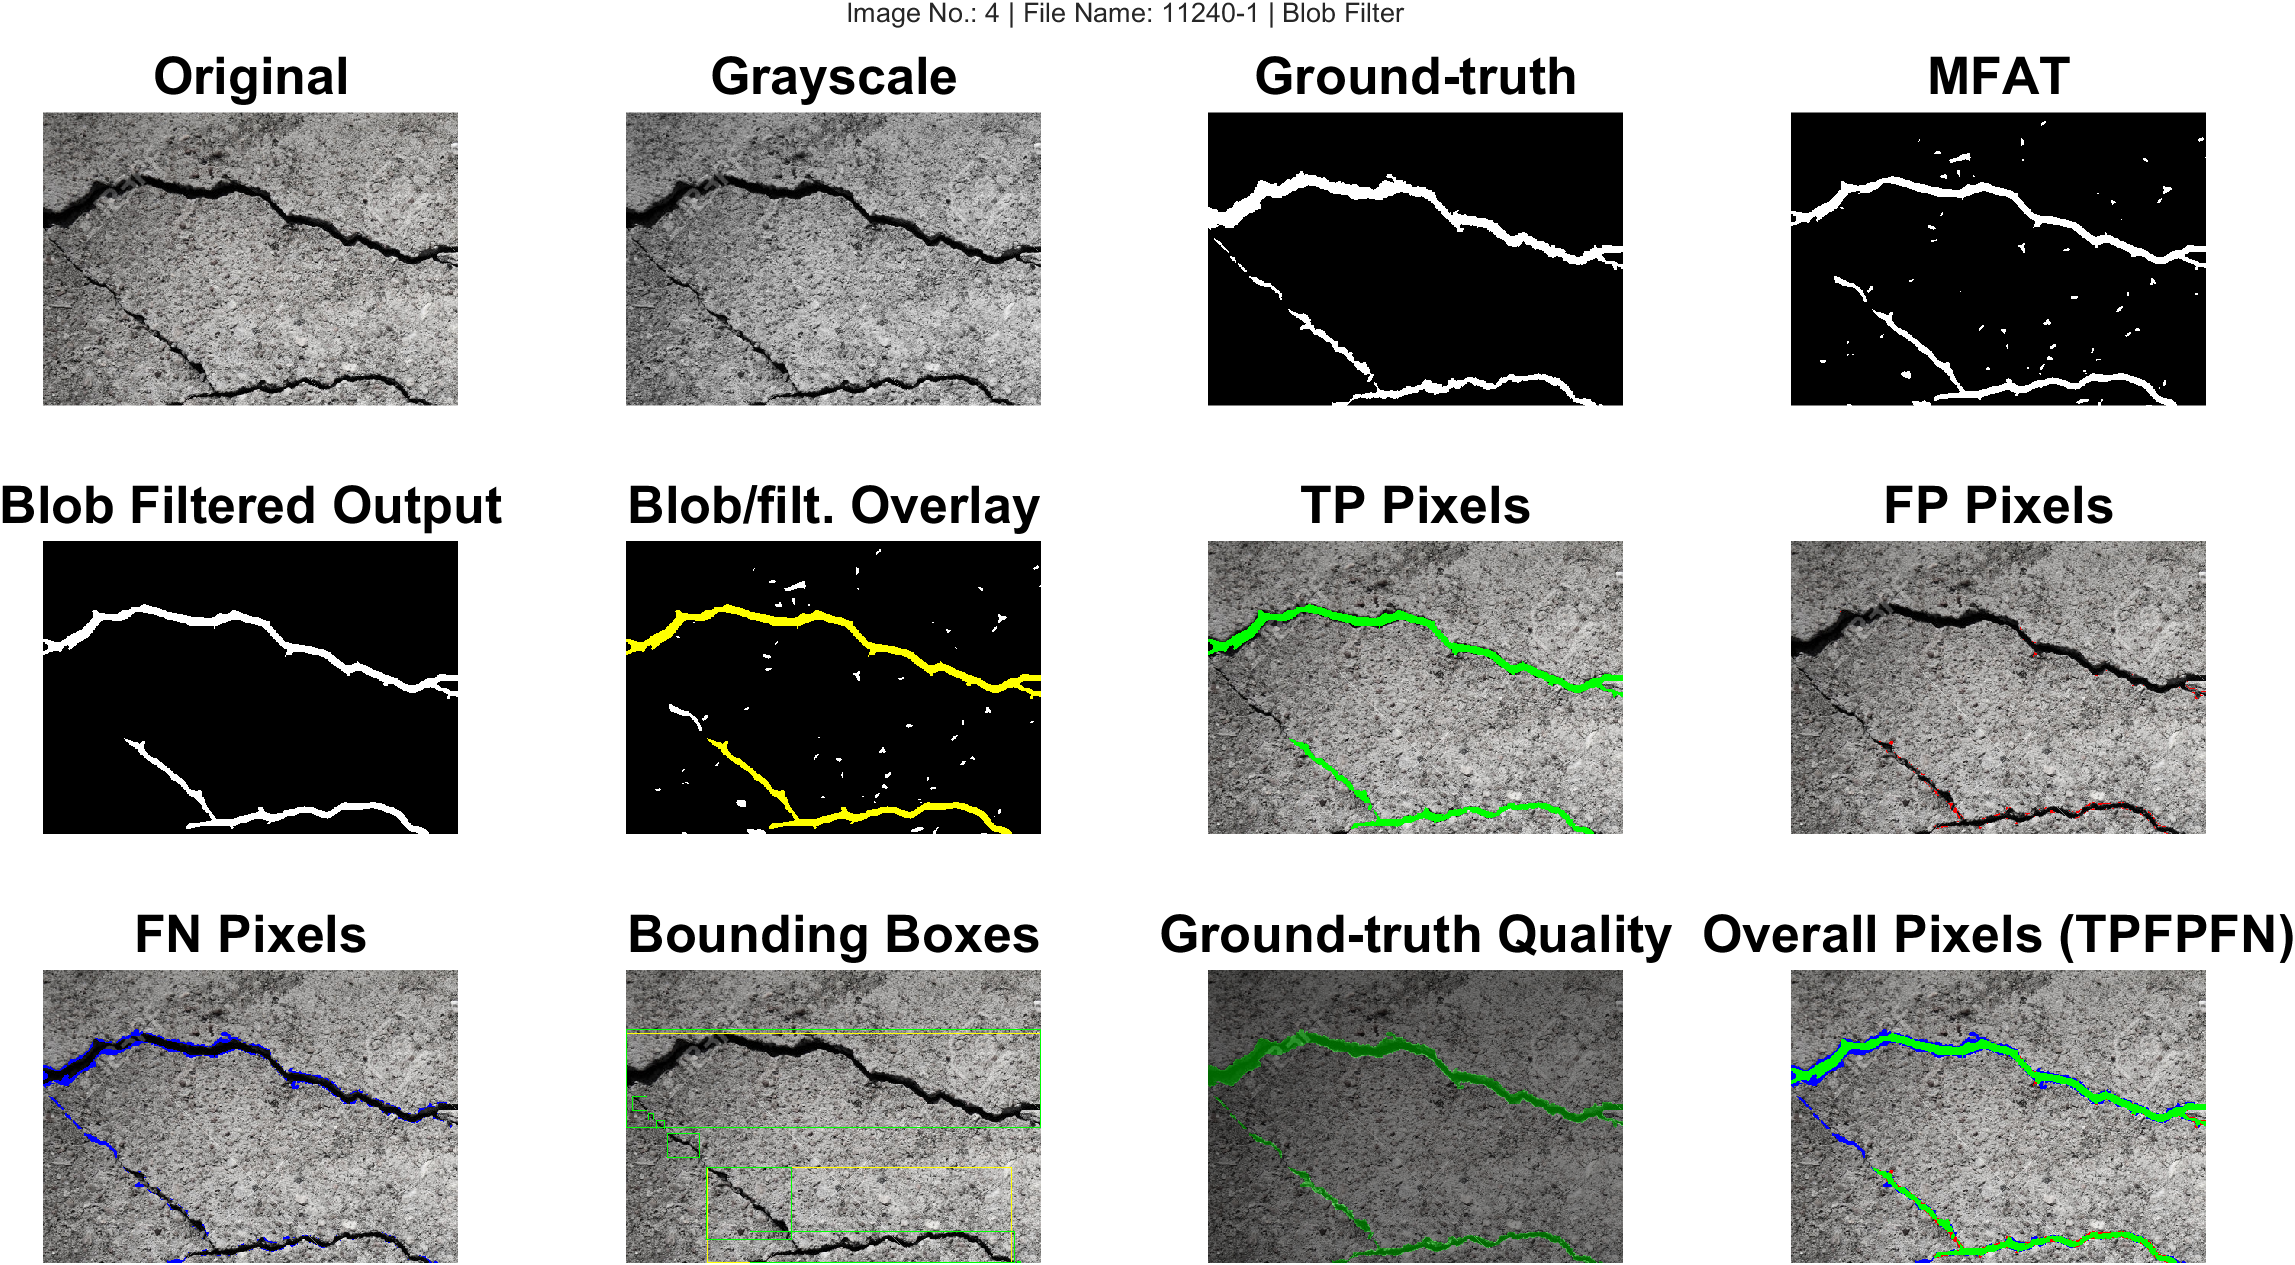
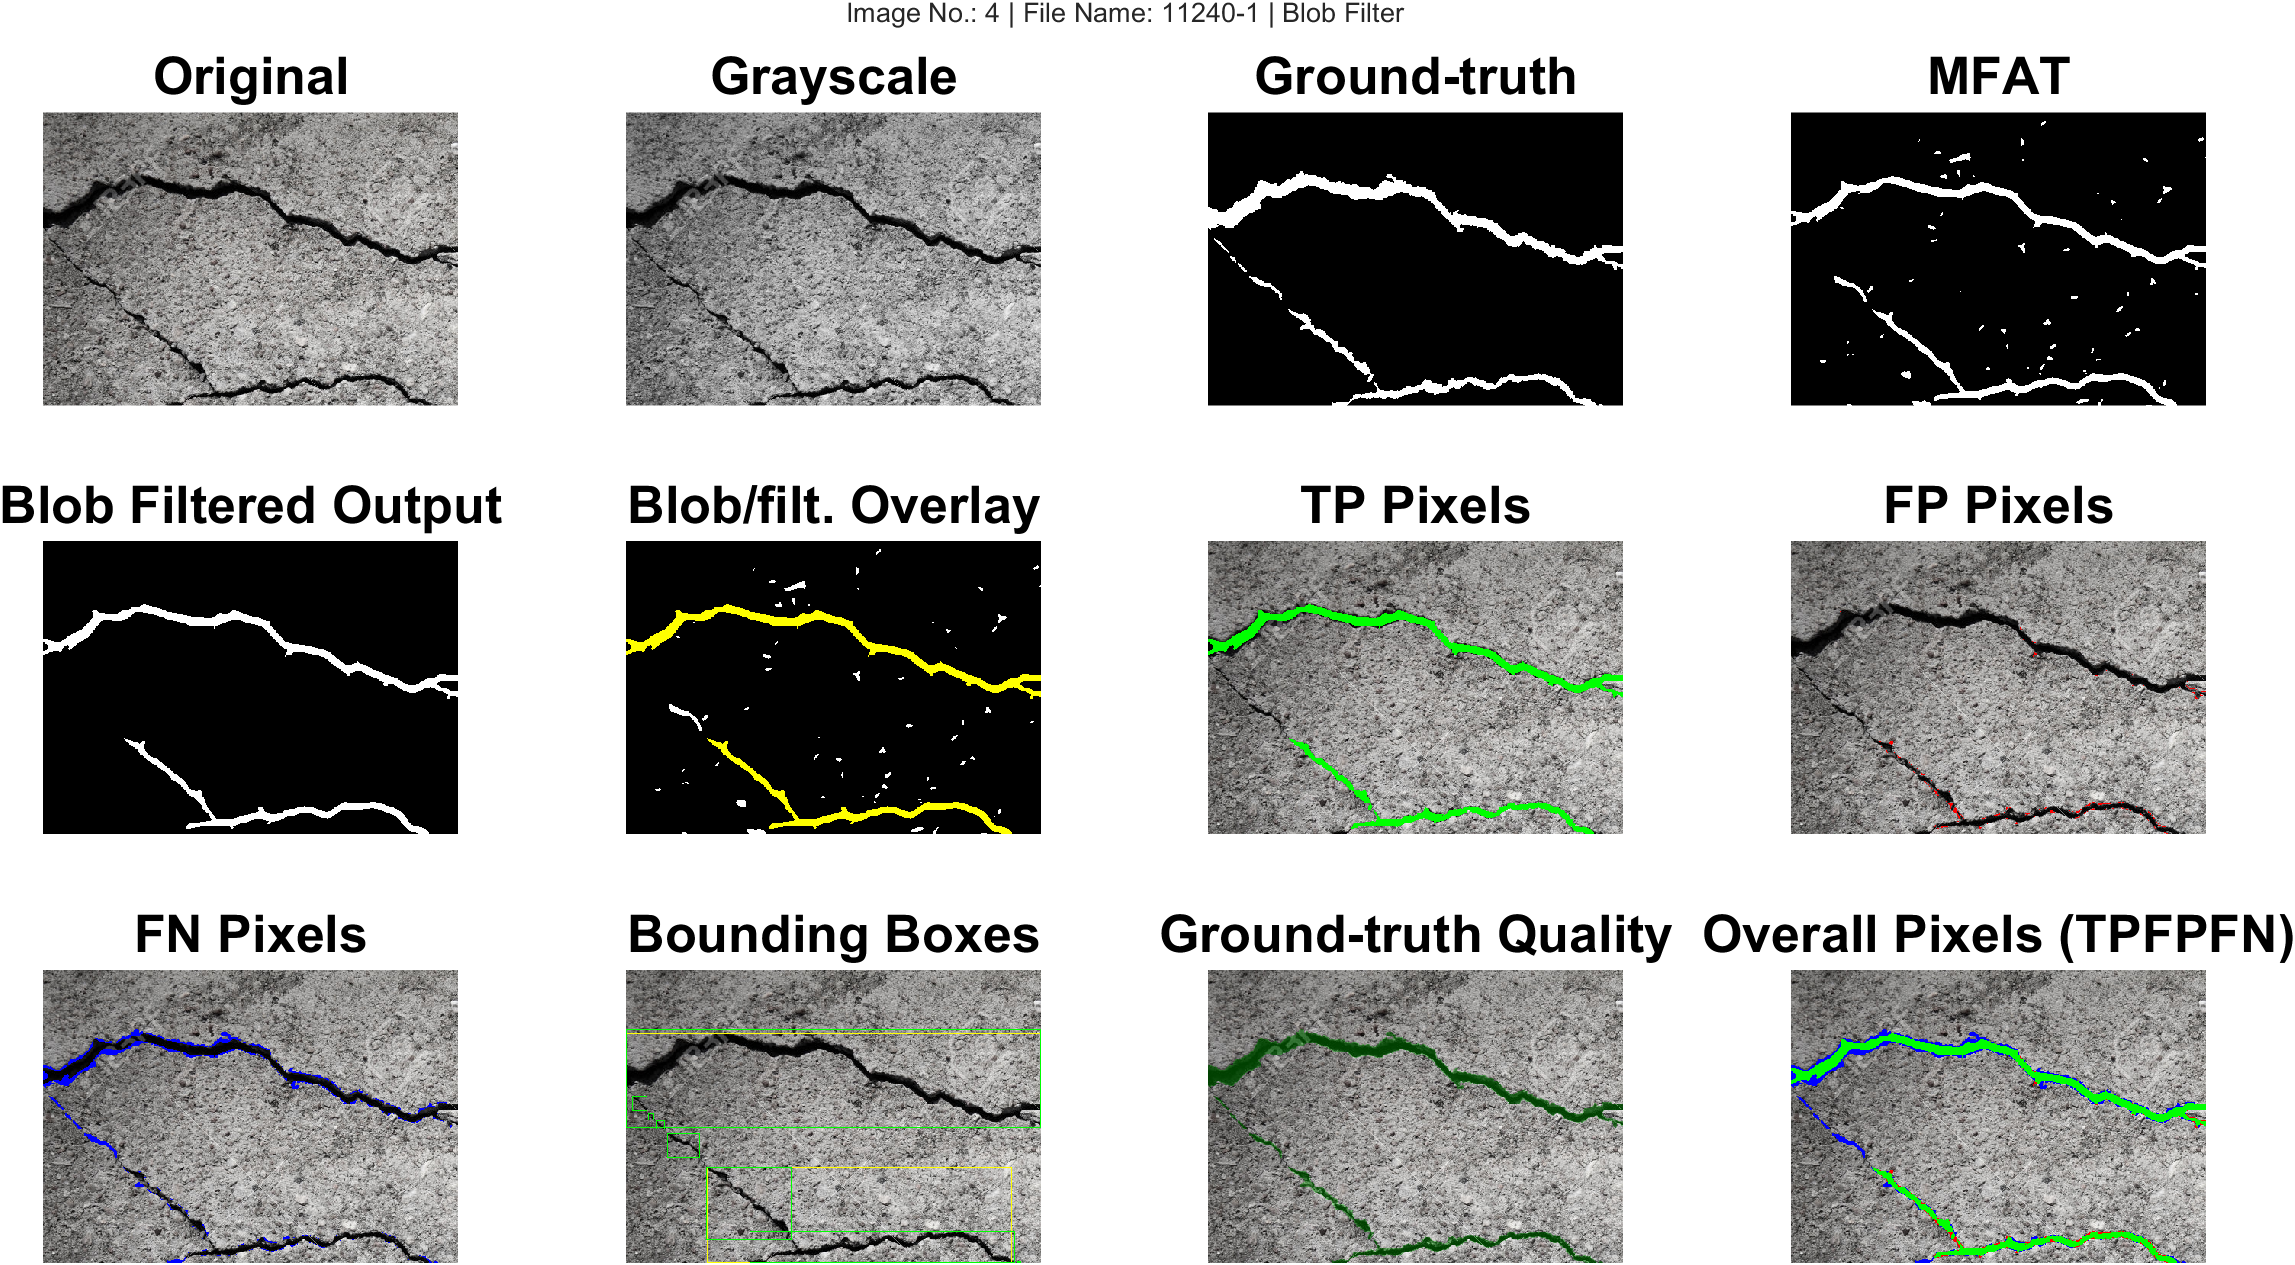
Improved the ground-truth quality overlay plot using MATLAB's inbuilt labeloverlay function.

Changed region(s): [[0.5259, 0.7399, 0.7115, 1.0]]

diff --git a/plotMetrics.m b/plotMetrics.m
@@ -57,13 +57,11 @@ function plotMetrics(input, imnum, Ioriginal, Igrayscale, Iground2PrecisionRecal
             ax10 = nexttile; imshow(rgbBboxOverlay); title('Bounding Boxes', 'fontsize', 25)
         end
         
-        qualityOverlay = imoverlay(Iground2PrecisionRecall, Iground2PrecisionRecall, [0 1 0]);
+
+        lab_overlay = labeloverlay(Ioriginal, Iground2PrecisionRecall, Transparency = 0.75, Colormap = [0 1 0]);        
         ax11 = nexttile;         
-        h1 = imshow(Ioriginal); hold on;
-        h2 = imshow(qualityOverlay); 
+        imshow(lab_overlay);
         title('Ground-truth Quality', 'fontsize', 25);
-        set(h1, 'AlphaData', 1); % .5 transparency
-        set(h2, 'AlphaData', 0.4); % .5 transparency
         
         % Overall TPFPFN pixels
         TP_red = imoverlay(Ioriginal, TP, [0 1 0]);
